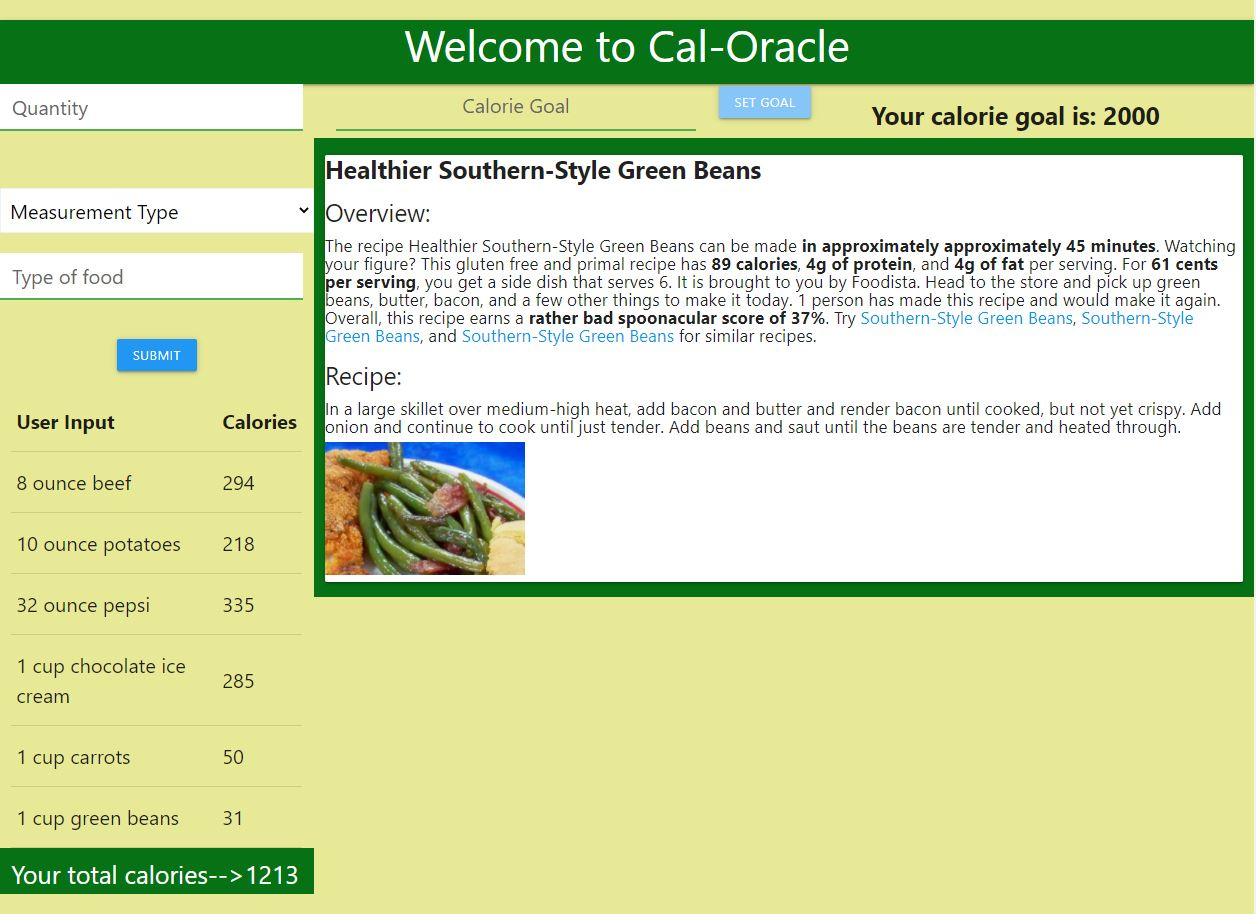
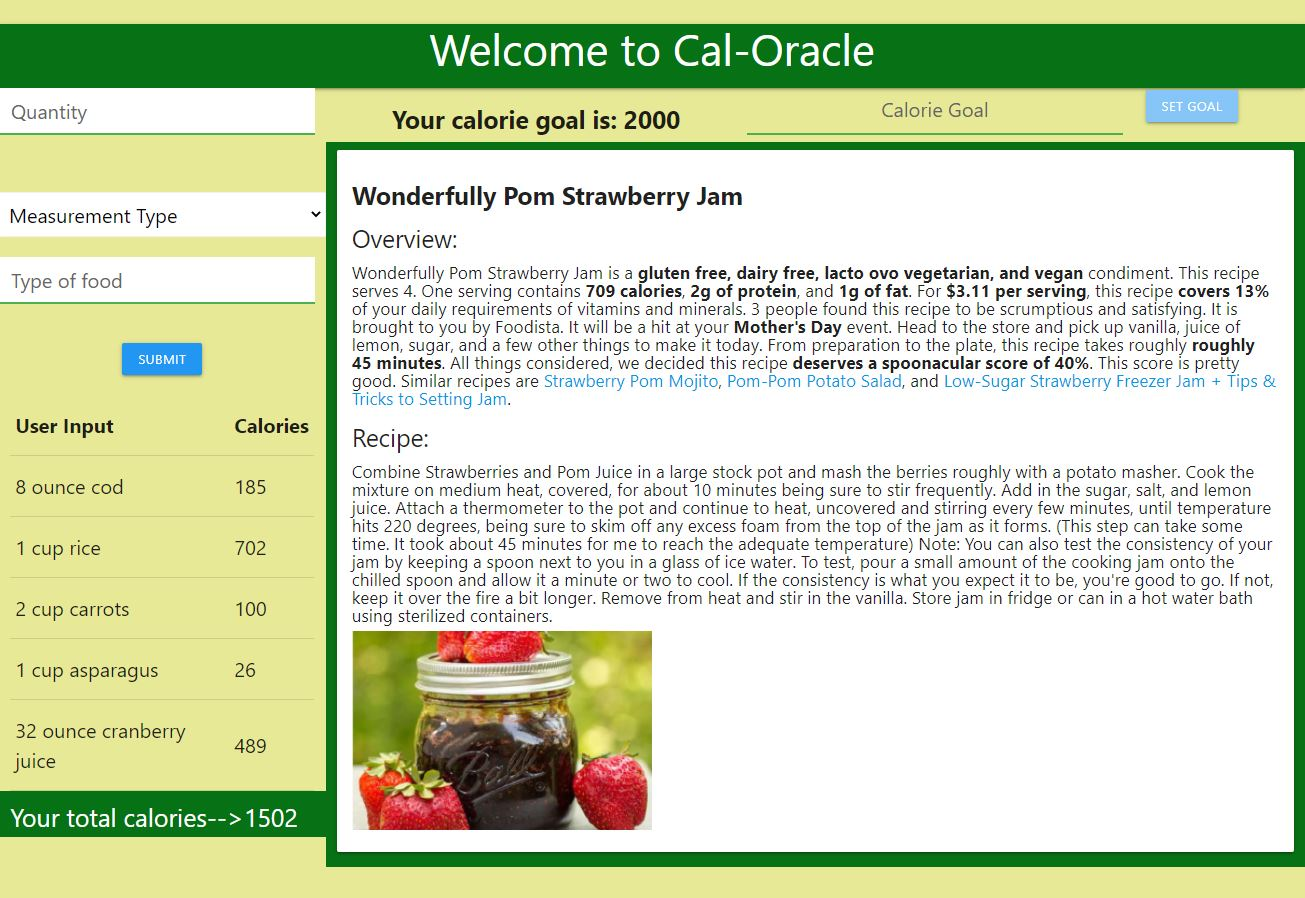
Adjusted calorie goal order, added padding to recipe div.

diff --git a/index.html b/index.html
@@ -62,16 +62,19 @@
       <!-- CALORIE GOAL INPUT AND DISPLAY  -->
       <div class="row">
         <div id="userGoal" class="col s4 m8 l9">
+
+        <div class="col m5 center-align">
+          <h5 id="goal-display"></h5>
+        </div>
           <div class="col m5">
               <input placeholder="Calorie Goal" id="calorie-goal-input" type="text" class="validate center-align valign"
               />
             </div>
             <div class="col m2">
-              <a class="waves-effect waves-light btn-small blue" id="submit-goal-btn" >Set goal</a>
+              <a class="waves-effect waves-light btn-small blue" id="submit-goal-btn">Set goal</a>
             </div>
-        <div class="col m5 float-left">
-          <h5 id="goal-display"></h5>
-        </div>
+
+
           </div>
           <div class="col s4 m8 l9" id="secondAPI">
             <!-- SECOND API -->
